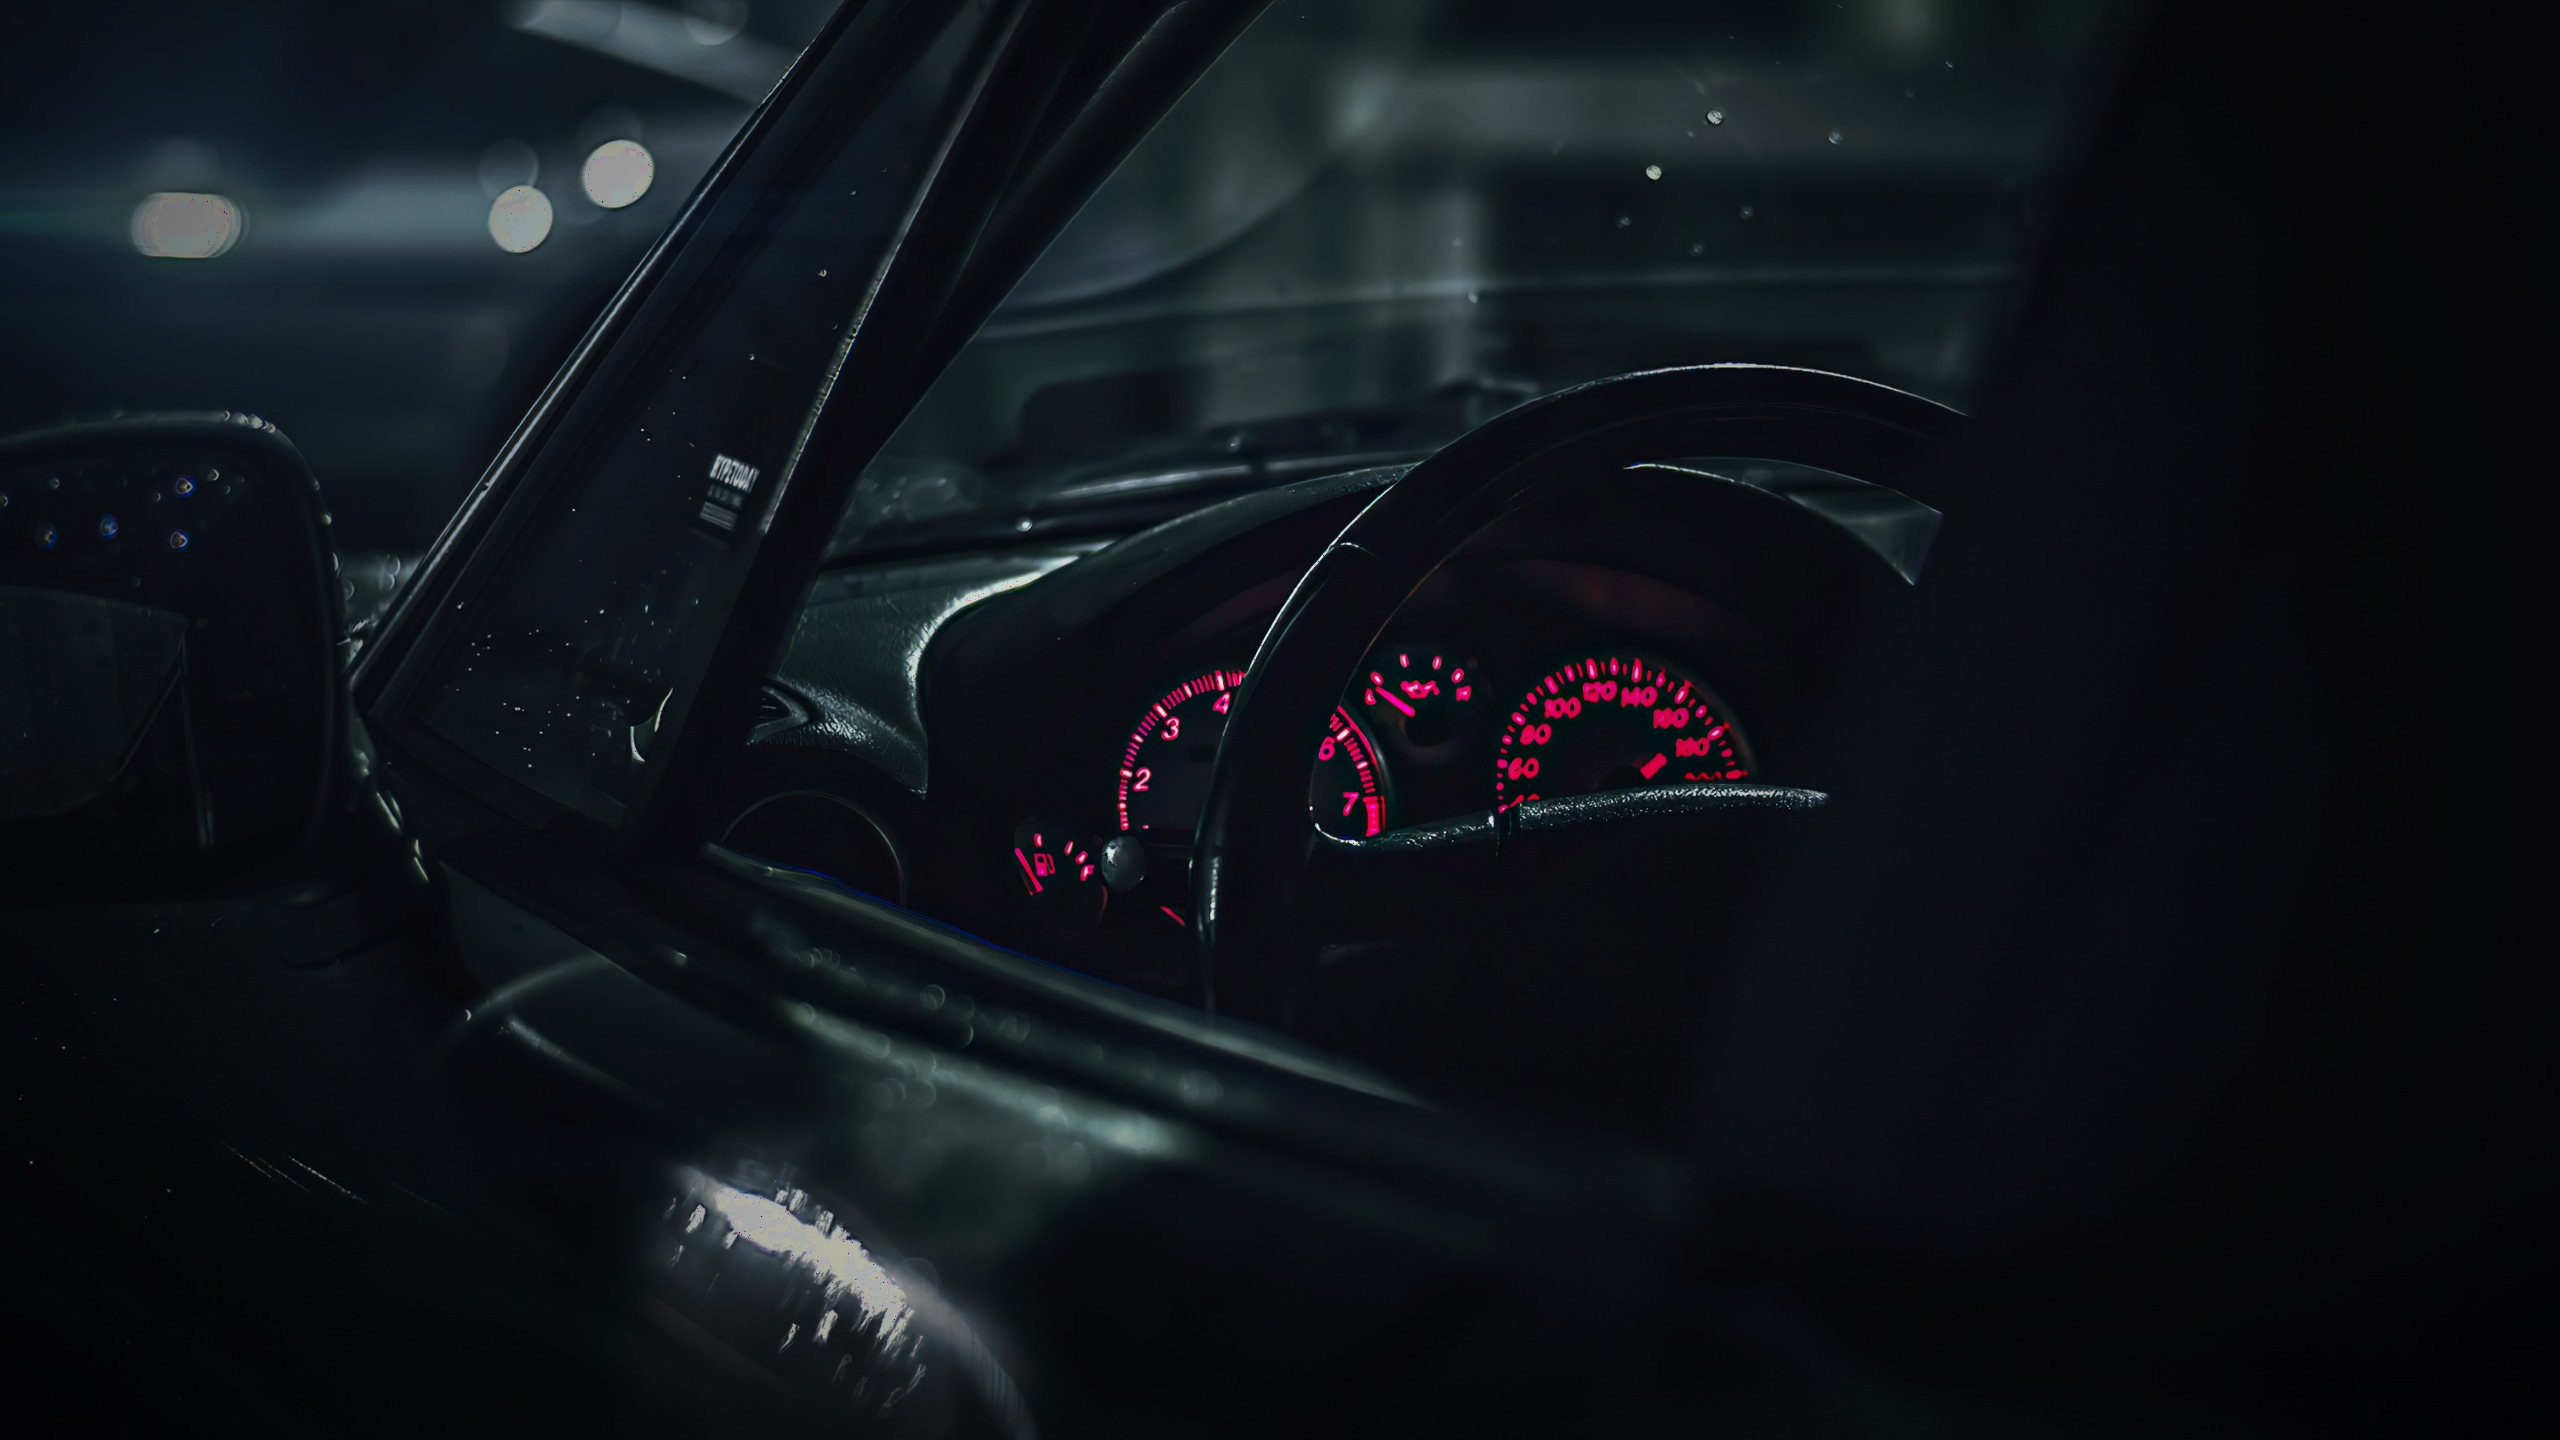
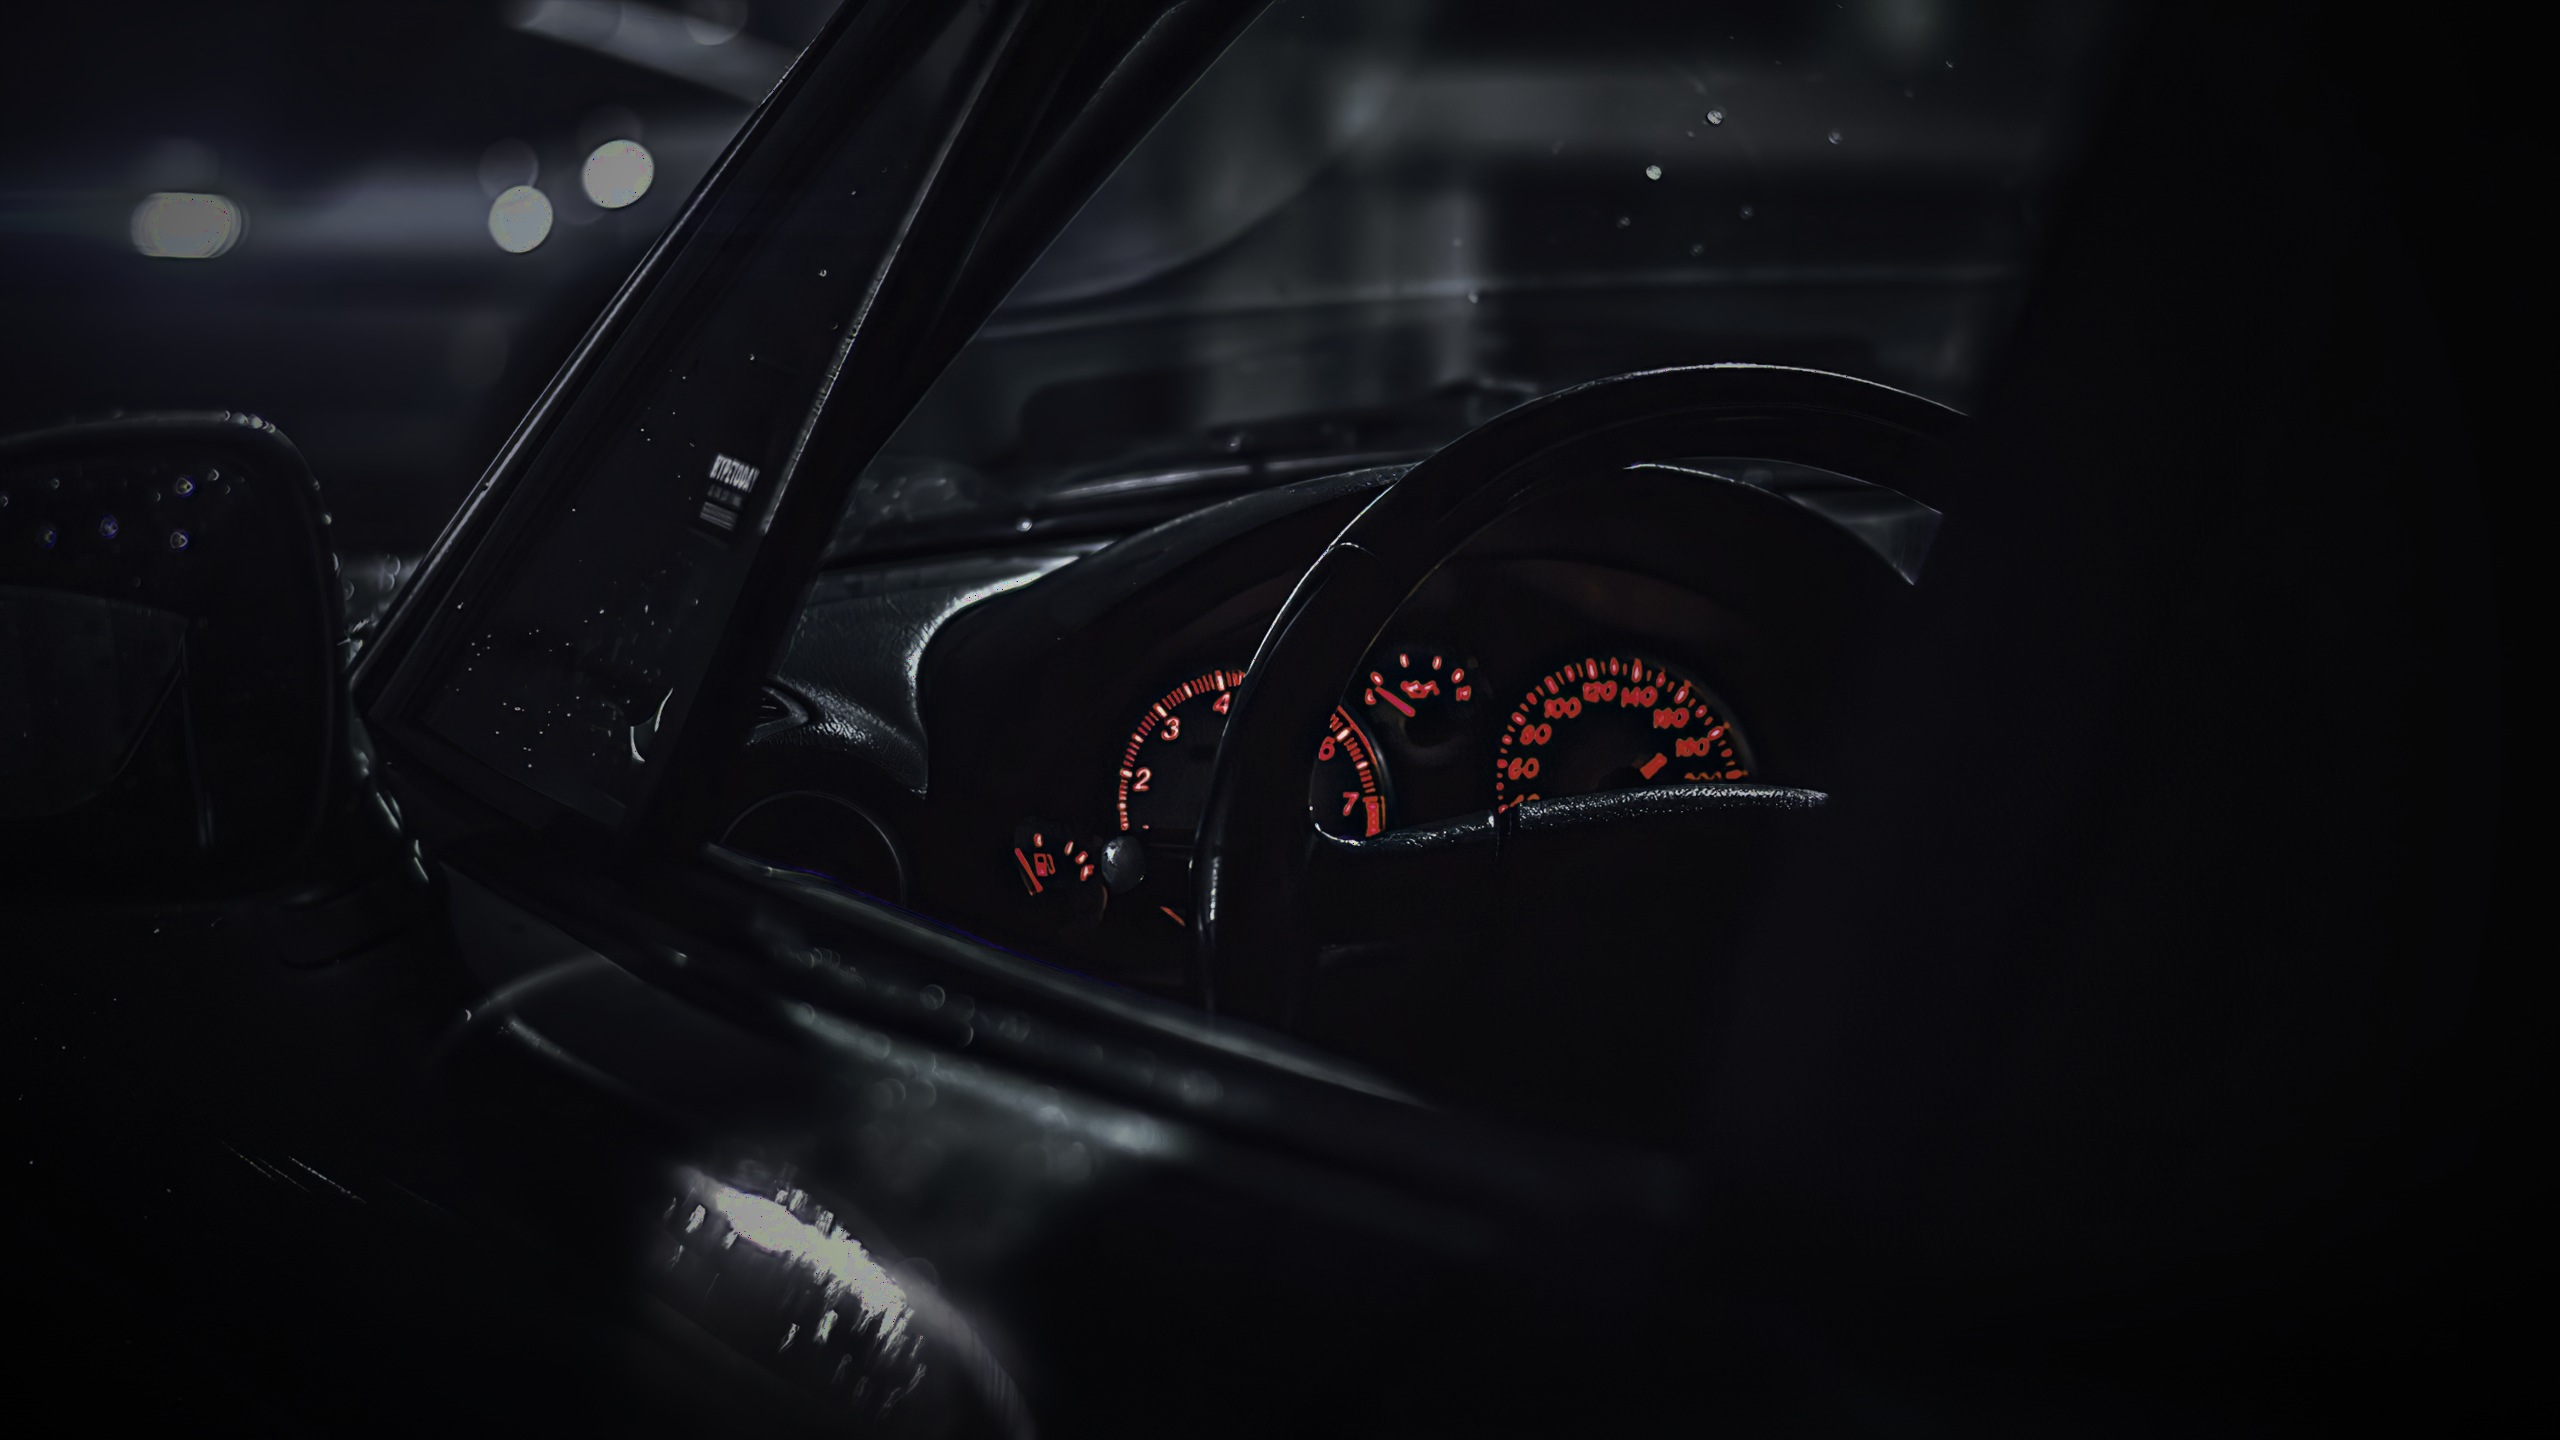
style(theme): tone NC Night down to black paint, chrome and taillight red
The first pass took its accent from a neon-pink gauge photo and read
as flashy purple. Pull it back toward the actual car:

- neutral paint-black backgrounds instead of blue-black, chrome text
- accent is a muted taillight red, used only on small highlights
  (active workspace, tmux session, cursor, prompt arrow)
- window/pane borders, tmux host pill and prompt OS pill go chrome
- waybar glows removed; ANSI magenta back to a muted mauve
- wallpapers regraded: gauges real red, neutral night sky
- fastfetch: chrome labels, neutral black car with a real taillight

diff --git a/.config/waybar/style.css b/.config/waybar/style.css
@@ -4,24 +4,24 @@
    ═══════════════════════════════════════════════════════════════════ */
 
 /* ── Palette ─────────────────────────────────────────────────────── */
-@define-color bg_dim    #0b0e12;
-@define-color bg0       #13171d;
-@define-color bg1       #1b2128;
-@define-color bg2       #252c34;
-@define-color bg3       #2f3842;
+@define-color bg_dim    #0a0b0c;
+@define-color bg0       #121314;
+@define-color bg1       #1b1c1e;
+@define-color bg2       #26282b;
+@define-color bg3       #303236;
 
-@define-color fg        #d8d3dc;
-@define-color grey0     #66757c;
-@define-color grey1     #71868b;
-@define-color grey2     #98a6ab;
+@define-color fg        #d6d8da;
+@define-color grey0     #6b6f73;
+@define-color grey1     #7a7e83;
+@define-color grey2     #a4a8ac;
 
-@define-color red       #ff5a4e;
-@define-color orange    #f47c48;
-@define-color yellow    #f2a541;
-@define-color green     #ef2f6e;
-@define-color aqua      #8fc1cc;
-@define-color blue      #7d9fd8;
-@define-color purple    #c58be0;
+@define-color red       #d0574a;
+@define-color orange    #d08350;
+@define-color yellow    #d4a35a;
+@define-color green     #b8473f;
+@define-color aqua      #a9b4bc;
+@define-color blue      #7f93a8;
+@define-color purple    #a08aa8;
 
 /* ── Base ────────────────────────────────────────────────────────── */
 * {
@@ -63,11 +63,11 @@ window#waybar.hidden {
 #custom-media,
 #clock,
 #custom-power {
-    background-image: linear-gradient(180deg, #1a1f26 0%, #11151a 100%);
+    background-image: linear-gradient(180deg, #19191b 0%, #0f1011 100%);
     border-radius: 999px;
     padding: 0 3px;
     margin: 2px 3px;
-    box-shadow: 0 1px 2px rgba(11, 14, 18, 0.55);
+    box-shadow: 0 1px 2px rgba(10, 11, 12, 0.55);
     transition: background-image 200ms ease, box-shadow 200ms ease;
 }
 
@@ -102,28 +102,28 @@ window#waybar.hidden {
 
 /* Per-module hover tints in each module's own accent, at low alpha — the
    capsule stays calm but the thing under the cursor is unambiguous. */
-#cpu:hover         { background-color: rgba(125, 159, 216, 0.14); border-radius: 999px; }
-#memory:hover      { background-color: rgba(197, 139, 224, 0.14); border-radius: 999px; }
-#temperature:hover { background-color: rgba(143, 193, 204, 0.14); border-radius: 999px; }
-#network:hover     { background-color: rgba(125, 159, 216, 0.14); border-radius: 999px; }
-#pulseaudio:hover  { background-color: rgba(242, 165, 65, 0.14); border-radius: 999px; }
-#bluetooth:hover   { background-color: rgba(143, 193, 204, 0.14); border-radius: 999px; }
-#battery:hover     { background-color: rgba(239, 47, 110, 0.14); border-radius: 999px; }
-#backlight:hover   { background-color: rgba(242, 165, 65, 0.14); border-radius: 999px; }
+#cpu:hover         { background-color: rgba(127, 147, 168, 0.14); border-radius: 999px; }
+#memory:hover      { background-color: rgba(160, 138, 168, 0.14); border-radius: 999px; }
+#temperature:hover { background-color: rgba(169, 180, 188, 0.14); border-radius: 999px; }
+#network:hover     { background-color: rgba(127, 147, 168, 0.14); border-radius: 999px; }
+#pulseaudio:hover  { background-color: rgba(212, 163, 90, 0.14); border-radius: 999px; }
+#bluetooth:hover   { background-color: rgba(169, 180, 188, 0.14); border-radius: 999px; }
+#battery:hover     { background-color: rgba(184, 71, 63, 0.14); border-radius: 999px; }
+#backlight:hover   { background-color: rgba(212, 163, 90, 0.14); border-radius: 999px; }
 
 /* ── Drawers ─────────────────────────────────────────────────────── */
 /* Revealed children sit behind a hairline so the group reads as one object
    with a handle, not as modules that appeared out of nowhere. */
 .drawer-child {
     padding: 0 7px;
-    border-left: 1px solid rgba(216, 211, 220, 0.10);
+    border-left: 1px solid rgba(214, 216, 218, 0.10);
 }
 
 #sysinfo:hover,
 #conn:hover,
 #energy:hover {
-    background-image: linear-gradient(180deg, #212830 0%, #171c22 100%);
-    box-shadow: 0 2px 5px rgba(11, 14, 18, 0.65);
+    background-image: linear-gradient(180deg, #202224 0%, #161718 100%);
+    box-shadow: 0 2px 5px rgba(10, 11, 12, 0.65);
 }
 
 /* ── Workspaces ──────────────────────────────────────────────────── */
@@ -151,7 +151,7 @@ window#waybar.hidden {
 }
 
 #workspaces button:hover {
-    background-color: rgba(216, 211, 220, 0.12);
+    background-color: rgba(214, 216, 218, 0.12);
     color: @fg;
 }
 
@@ -161,16 +161,16 @@ window#waybar.hidden {
 
 #workspaces button.focused,
 #workspaces button.active {
-    background-image: linear-gradient(180deg, #f55b8a 0%, #d01f5a 100%);
+    background-image: linear-gradient(180deg, #cc5f55 0%, #963a33 100%);
     color: @bg_dim;
     font-weight: 700;
-    box-shadow: 0 0 7px rgba(239, 47, 110, 0.45);
+    box-shadow: 0 0 7px rgba(184, 71, 63, 0);
 }
 
 #workspaces button.urgent {
-    background-image: linear-gradient(180deg, #ff7b70 0%, #e8463b 100%);
+    background-image: linear-gradient(180deg, #de7b70 0%, #b54137 100%);
     color: @bg_dim;
-    box-shadow: 0 0 7px rgba(255, 90, 78, 0.50);
+    box-shadow: 0 0 7px rgba(208, 87, 74, 0.50);
 }
 
 /* ── Sway mode / scratchpad ──────────────────────────────────────── */
@@ -214,7 +214,7 @@ window#waybar.empty #window {
 }
 
 #custom-media:hover {
-    background-image: linear-gradient(180deg, #212830 0%, #171c22 100%);
+    background-image: linear-gradient(180deg, #202224 0%, #161718 100%);
 }
 
 /* ── Utils island ────────────────────────────────────────────────── */
@@ -332,16 +332,16 @@ window#waybar.empty #window {
 
 /* ── Clock — the accent anchor ───────────────────────────────────── */
 #clock {
-    background-image: linear-gradient(180deg, #f55b8a 0%, #d01f5a 100%);
+    background-image: linear-gradient(180deg, #cc5f55 0%, #963a33 100%);
     color: @bg_dim;
     font-weight: 700;
     padding: 0 12px;
-    box-shadow: 0 0 8px rgba(239, 47, 110, 0.35);
+    box-shadow: 0 0 8px rgba(184, 71, 63, 0);
 }
 
 #clock:hover {
-    background-image: linear-gradient(180deg, #a6d0d8 0%, #79aeb9 100%);
-    box-shadow: 0 0 10px rgba(143, 193, 204, 0.45);
+    background-image: linear-gradient(180deg, #bcc6cc 0%, #8f9aa2 100%);
+    box-shadow: 0 0 10px rgba(169, 180, 188, 0.45);
 }
 
 /* ── Power button ────────────────────────────────────────────────── */
@@ -352,9 +352,9 @@ window#waybar.empty #window {
 }
 
 #custom-power:hover {
-    background-image: linear-gradient(180deg, #ff7b70 0%, #e8463b 100%);
+    background-image: linear-gradient(180deg, #de7b70 0%, #b54137 100%);
     color: @bg_dim;
-    box-shadow: 0 0 8px rgba(255, 90, 78, 0.45);
+    box-shadow: 0 0 8px rgba(208, 87, 74, 0.45);
 }
 
 /* ── Tooltips ────────────────────────────────────────────────────── */

diff --git a/.config/fastfetch/nc-logo.py b/.config/fastfetch/nc-logo.py
@@ -2,8 +2,8 @@
 # rendered as truecolor half-blocks. Usage: python3 nc-logo.py nc.ans /dev/null
 import sys
 W,H=52,18
-C={'.':None,'b':(0x2b,0x33,0x3d),'l':(0x3c,0x48,0x54),'d':(0x1c,0x22,0x29),'e':(0x8a,0x9c,0xa3),'w':(0x34,0x4a,0x55),'W':(0x8f,0xc1,0xcc),
-   't':(0xef,0x2f,0x6e),'h':(0xe6,0xf2,0xff),'k':(0x0b,0x0e,0x12),'r':(0x71,0x86,0x8b),'g':(0x6a,0x16,0x34),'G':(0x3a,0x0c,0x1e)}
+C={'.':None,'b':(0x2a,0x2c,0x30),'l':(0x3a,0x3d,0x42),'d':(0x1c,0x1d,0x20),'e':(0x9a,0x9e,0xa3),'w':(0x33,0x3a,0x41),'W':(0x8a,0x96,0xa0),
+   't':(0xc4,0x3a,0x30),'h':(0xe4,0xe6,0xe8),'k':(0x0a,0x0b,0x0c),'r':(0x7a,0x7e,0x83),'g':(0x4a,0x1a,0x16),'G':(0x26,0x10,0x0e)}
 P=[['.']*W for _ in range(H)]
 def put(x,y,c):
     if 0<=x<W and 0<=y<H: P[y][x]=c
@@ -50,4 +50,4 @@ open(sys.argv[1],'w').write('\n'.join(out)+'\n')
 with open(sys.argv[2],'w') as f:
     f.write(f'P3 {W} {H} 255\n')
     for row in P:
-        f.write(' '.join('%d %d %d'%(C[c] or (0x13,0x17,0x1d)) for c in row)+'\n')
+        f.write(' '.join('%d %d %d'%(C[c] or (0x12,0x13,0x14)) for c in row)+'\n')
